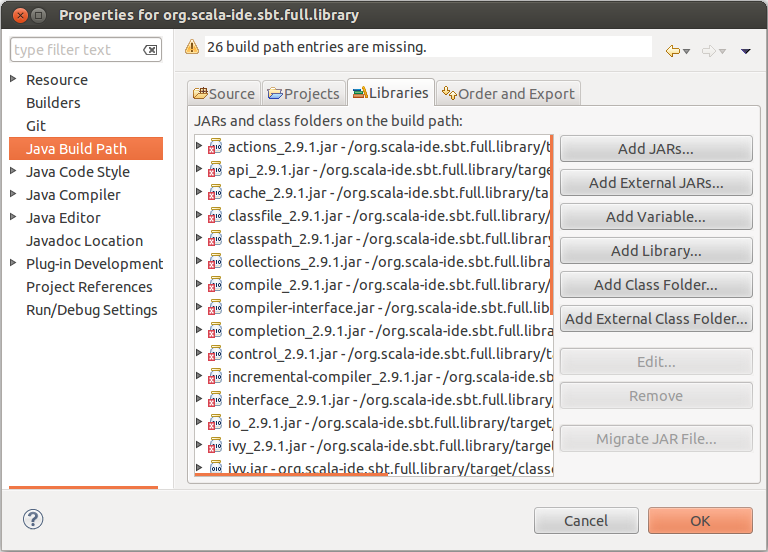
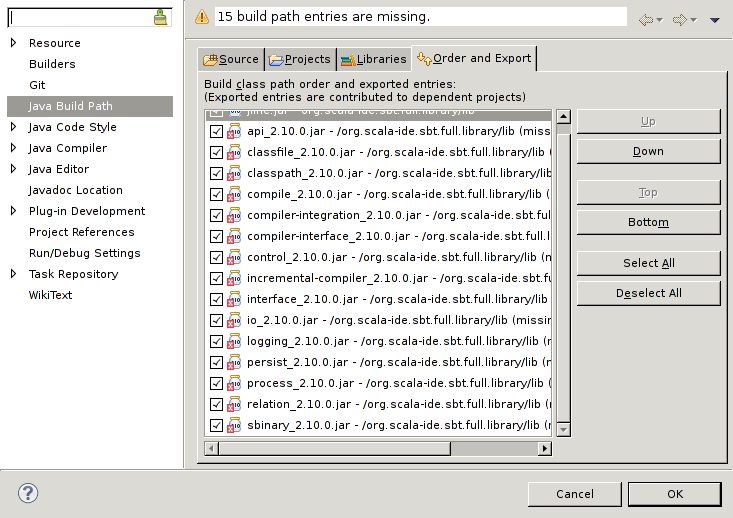
Bumping the default Scala version 2.9.2 -> 2.10.0 complementary to https://github.com/scala-ide/scala-ide/pull/282/

diff --git a/src/sphinx/dev/setup/setup.rst b/src/sphinx/dev/setup/setup.rst
@@ -1,24 +1,24 @@
 Setup
 =====
 
-In this page you will learn everything you need to know to setup the Scala IDE project in Eclipse. 
+In this page you will learn everything you need to know to setup the Scala IDE project in Eclipse.
 You are literally instants away from being all set and ready to start hacking the Scala IDE sources!
 
 Requirements
 ------------
 
-* `JDK 5 <http://www.oracle.com/technetwork/java/javasebusiness/downloads/java-archive-downloads-javase5-419410.html>`_ 
-  or `JDK 6 <http://www.oracle.com/technetwork/java/javasebusiness/downloads/java-archive-downloads-javase6-419409.html>`_ 
-  (JDK 7 is **not** supported. As a matter of fact, there have been issues reported when running Eclipse with a Java 7 JVM. For instance, 
+* `JDK 5 <http://www.oracle.com/technetwork/java/javasebusiness/downloads/java-archive-downloads-javase5-419410.html>`_
+  or `JDK 6 <http://www.oracle.com/technetwork/java/javasebusiness/downloads/java-archive-downloads-javase6-419409.html>`_
+  (JDK 7 is **not** supported. As a matter of fact, there have been issues reported when running Eclipse with a Java 7 JVM. For instance,
   see https://bugs.eclipse.org/bugs/show_bug.cgi?id=364735).
 
 * `Maven 3 <http://maven.apache.org/download.html>`_.
 
 * `Git <http://git-scm.com/>`_ and a `GitHub <https://github.com/>`_ account.
 
-* `Eclipse 3.7 (Indigo) <http://www.eclipse.org/downloads/>`_, including the JDT. Either "Eclipse Classic" or "Eclipse for Java Developers" is sufficient (Be aware, the plugin's sources are no longer compatible with Eclipse 3.6). 
+* `Eclipse 3.7 (Indigo) <http://www.eclipse.org/downloads/>`_, including the JDT. Either "Eclipse Classic" or "Eclipse for Java Developers" is sufficient (Be aware, the plugin's sources are no longer compatible with Eclipse 3.6).
 
-* The `Scala IDE Helium for Scala 2.9 <http://scala-ide.org/download/nightly.html>`_.
+* The `Scala IDE Helium for Scala 2.10 <http://scala-ide.org/download/nightly.html>`_.
 
 This document uses a script to build Scala IDE. If you are on Windows, we suggest you to install Cygwin (how could you live without it on Windows anyway!?). Otherwise, the :ref:`building_run-the-build` section of the documentation describes the different steps to execute for a full build.
 
@@ -27,23 +27,23 @@ This document uses a script to build Scala IDE. If you are on Windows, we sugges
 Fork the project
 ----------------
 
-The first thing you should do is forking the `Scala IDE repository <http://github.com/scala-ide/scala-ide>`_, 
-that will greatly simplify the process of sending us patches (remember to also read about the 
+The first thing you should do is forking the `Scala IDE repository <http://github.com/scala-ide/scala-ide>`_,
+that will greatly simplify the process of sending us patches (remember to also read about the
 :ref:`workflow_page` before creating pull requests).
 
-If you are new to GitHub, `read here to learn how to fork a project 
+If you are new to GitHub, `read here to learn how to fork a project
 <http://help.github.com/fork-a-repo/>`_.
 
-After forking the project, simply open a terminal and clone your own fork to download the project's 
-sources. The command for cloning the fork should be very close to the following one (mind that 
+After forking the project, simply open a terminal and clone your own fork to download the project's
+sources. The command for cloning the fork should be very close to the following one (mind that
 you will have to replace *<username>* with your actual Git username).
 
 .. code-block:: bash
 
-	$ git clone git@github.com:<username>/scala-ide.git
+        $ git clone git@github.com:<username>/scala-ide.git
 
-Make sure to `add an Upstream <http://help.github.com/fork-a-repo/#Set-Up-Your-Local-Repo>`_ pointing 
-to the original Scala IDE git remote repository, so that you can keep fetching the latest changes 
+Make sure to `add an Upstream <http://help.github.com/fork-a-repo/#Set-Up-Your-Local-Repo>`_ pointing
+to the original Scala IDE git remote repository, so that you can keep fetching the latest changes
 made in the project, and easily integrate them back in your fork.
 
 Pull the libraries
@@ -52,73 +52,73 @@ Pull the libraries
 The Scala IDE projects uses libraries which are pulled during the build process and copied in the ``target/lib`` folders.
 So let's run the build.
 
-From the project root, run the following command if you are using Scala IDE with Scala 2.9:
+From the project root, run the following command if you are using Scala IDE with Scala 2.10:
 
 .. code-block:: bash
 
    $ ./build-all.sh clean install
 
-or the following if you are using Scala IDE with Scala 2.10:
+or the following if you are using Scala IDE with Scala 2.9:
 
 .. code-block:: bash
 
-   $ ./build-all.sh -P scala-2.10.x clean install
+   $ ./build-all.sh -P scala-2.9.x clean install
 
 If you want more information concerning the build, check out :ref:`building_run-the-build`.
 
 Import the projects into Eclipse
 --------------------------------
 
-The Scala IDE project already contains the metadata files needed by Eclipse to setup the project. 
-To import the Scala IDE in your workspace simply click on ``File > Import``. The Eclipse Import dialog 
-will open. There, select ``General > Existing Projects into Workspace`` and click Next. A new dialog 
-will open. Browse to the folder that points to your cloned Scala IDE project's and select it. 
+The Scala IDE project already contains the metadata files needed by Eclipse to setup the project.
+To import the Scala IDE in your workspace simply click on ``File > Import``. The Eclipse Import dialog
+will open. There, select ``General > Existing Projects into Workspace`` and click Next. A new dialog
+will open. Browse to the folder that points to your cloned Scala IDE project's and select it.
 
-A list of projects should then be loaded in the below white area. The only projects that you absolutely 
-need to import in Eclipse are ``org.scala-ide.sbt.full.library``, ``org.scala-ide.sdt.core`` and 
-``org.scala-ide.sdt.core.tests``. Select only those and click Finish. 
- 
-There is only one more thing to check to get ready to hack the Scala IDE project. You may 
-notice that the ``org.scala-ide.sbt.full.library`` project has build path errors. This project is 
+A list of projects should then be loaded in the below white area. The only projects that you absolutely
+need to import in Eclipse are ``org.scala-ide.sbt.full.library``, ``org.scala-ide.sdt.core`` and
+``org.scala-ide.sdt.core.tests``. Select only those and click Finish.
+
+There is **one more thing** to check to get ready to hack the Scala IDE project. You may
+notice that the ``org.scala-ide.sbt.full.library`` project has build path errors. This project is
 grouping together a bunch of SBT jars into one OSGI bundle. The project build path is configured by default to
-reference the 2.9 version of the jars, so the configuration will be wrong if you are working with Scala 2.10.
+reference the 2.10 version of the jars, so the configuration will be wrong if you are working with Scala 2.9.
 
-To fix this, right click on the ``org.scala-ide.sbt.full.library`` project and then click "Properties". A 
-dialog will open. Click on "Java Build Path" and select the "Libraries" tab. You should see something 
+To fix this, right click on the ``org.scala-ide.sbt.full.library`` project and then click "Properties". A
+dialog will open. Click on "Java Build Path" and select the "Libraries" tab. You should see something
 on the lines of:
- 
+
 .. image:: images/sbt-full-jars.png
    :width: 100%
    :target: ../../_images/sbt-full-jars.png
- 
-First remove all JARs, and then click the "Add JARs..." button and browse to ``org.scala-ide.sbt.full.library/target/classes/lib``.
+
+First remove all JARs, and then click the "Add JARs..." button and browse to ``org.scala-ide.sbt.full.library/lib``.
 Select all JARs in the folder and click OK.
- 
-Now click the "Order and Export" tab and make sure to export all JARs click the "Select All" button. 
- 
+
+Now click the "Order and Export" tab and make sure to export all JARs click the "Select All" button.
+
 .. image:: images/order-export.png
    :width: 100%
    :target: ../../_images/order-export.png
- 
- 
+
+
 Click OK.
 
-Additionally, if you're using scala 2.10, you need to right-click the 2.9 folder in the ``org.scala-ide.sdt.core`` project and select ``Build Path -> Remove from Build Path`` and add the 2.10 folder instead by right-clicking and selecting ``Build Path -> Use as Source Folder``.
- 
-If after rebuilding you see any errors, drop us a note in the `Scala IDE Developer 
+Additionally, if you're using scala 2.9, you need to right-click the 2.10 folder in the ``org.scala-ide.sdt.core`` project and select ``Build Path -> Remove from Build Path`` and add the 2.9 folder instead by right-clicking and selecting ``Build Path -> Use as Source Folder``.
+
+If after rebuilding you see any errors, drop us a note in the `Scala IDE Developer
 Mailing List <http://groups.google.com/group/scala-ide-dev?pli=1>`_.
 
 Run the Scala IDE within Eclipse
 --------------------------------
 
-So, you managed to have the Scala IDE sources compiling, now it's time to learn how to run the Scala 
-IDE within Eclipse. 
+So, you managed to have the Scala IDE sources compiling, now it's time to learn how to run the Scala
+IDE within Eclipse.
 
-Doing this is especially useful if you need to do some manual debugging of the plug-in. Since the 
-Scala IDE uses weaving, you need to launch the IDE with weaving enabled, which is not configurable 
-in the vanilla launcher. 
+Doing this is especially useful if you need to do some manual debugging of the plug-in. Since the
+Scala IDE uses weaving, you need to launch the IDE with weaving enabled, which is not configurable
+in the vanilla launcher.
 
-That is why we suggest you to install the 
+That is why we suggest you to install the
 `Equinox Weaving Launcher <https://github.com/milessabin/equinox-weaving-launcher>`_.
 
 
@@ -129,20 +129,20 @@ Install the Equinox Weaving Launcher
 
 To install the Equinox Weaving Launcher, use the following Eclipse update site:
 
-	http://www.chuusai.com/eclipse/equinox-weaving-launcher/
+        http://www.chuusai.com/eclipse/equinox-weaving-launcher/
 
-This adds two more launch configurations: Eclipse Application with Equinox Weaving, and JUnit plug-in 
+This adds two more launch configurations: Eclipse Application with Equinox Weaving, and JUnit plug-in
 test with Equinox Weaving.
 
 Create a run configuration for launching Eclipse with Scala IDE
 ...............................................................
 
-To create a run configuration, right click on the ``org.scala-ide.sdt.core`` project and select 
-Run As > Equinox Weaving enabled Eclipse Application.  That should fire up a second Eclipse instance. 
+To create a run configuration, right click on the ``org.scala-ide.sdt.core`` project and select
+Run As > Equinox Weaving enabled Eclipse Application.  That should fire up a second Eclipse instance.
 To quickly test that all is working fine, try to create a Scala project.
 
-You are now ready to hack on the Scala IDE. Start by looking around, do some change and observe what 
-happens when you launch the second Eclipse's instance. 
+You are now ready to hack on the Scala IDE. Start by looking around, do some change and observe what
+happens when you launch the second Eclipse's instance.
 
 Read the rest of the developer documentation to get more insights about the overall architecture.
 
@@ -152,9 +152,9 @@ Additional information
 ``org.scala-ide.sdt.aspects`` project
 .....................................
 
-The Scala IDE uses AspectJ to weave into Eclipse and hook in to JDT internals. If you want to work 
-on JDT integration within the Scala IDE, then it is a good idea to import 
-``org.scala-ide.sdt.aspects`` project in your Eclipse workspace and also install the `AspectJ 
+The Scala IDE uses AspectJ to weave into Eclipse and hook in to JDT internals. If you want to work
+on JDT integration within the Scala IDE, then it is a good idea to import
+``org.scala-ide.sdt.aspects`` project in your Eclipse workspace and also install the `AspectJ
 Eclipse plug-in <http://www.eclipse.org/ajdt>`_.
 
 
@@ -163,7 +163,7 @@ Using JRebel
 
 If you want to use JRebel, there are two things you need to know:
 
-1. You can simply add ``-noverify -javaagent:path/to/javarebel.jar`` to the VM arguments in the 
-   run configuration. For Windows, this is 
+1. You can simply add ``-noverify -javaagent:path/to/javarebel.jar`` to the VM arguments in the
+   run configuration. For Windows, this is
    ``-noverify "-javaagent:C:\Program Files (x86)\ZeroTurnaround\JRebel\jrebel.jar"``.
 2. JRebel is free for Scala users, see Free JavaRebel for Scala users, ZeroTurnaround announces.
